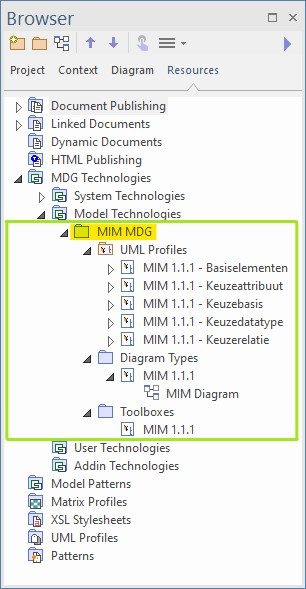
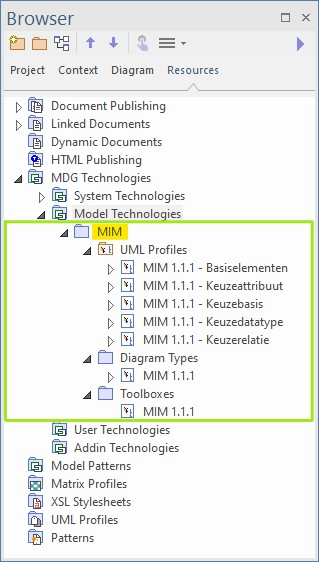
update tekst en image

diff --git a/UML profieltooling/werkversie1.1.1/README.md b/UML profieltooling/werkversie1.1.1/README.md
@@ -53,7 +53,7 @@ Versienummer toegevoegd, zodat uit de naam van de toolbox duidelijk blijkt wat d
 
  - Klik '_Ok_'
  - Navigeer in het '_Resources_' naar '_MDG Technologies_' > '_Model Technologies_'.
- - Controleer of hier nu een map met de naam '_MIM MDG_' staat.
+ - Controleer of hier nu een map met de naam '_MIM_' staat.
  - Controleer ook of het MIM-versienummer klopt bij '_UML Profiles_', '_Diagram Types_' en '_Toolboxes_'.
 
 ![](Media/mim_import_to_model_succesful.jpg)
